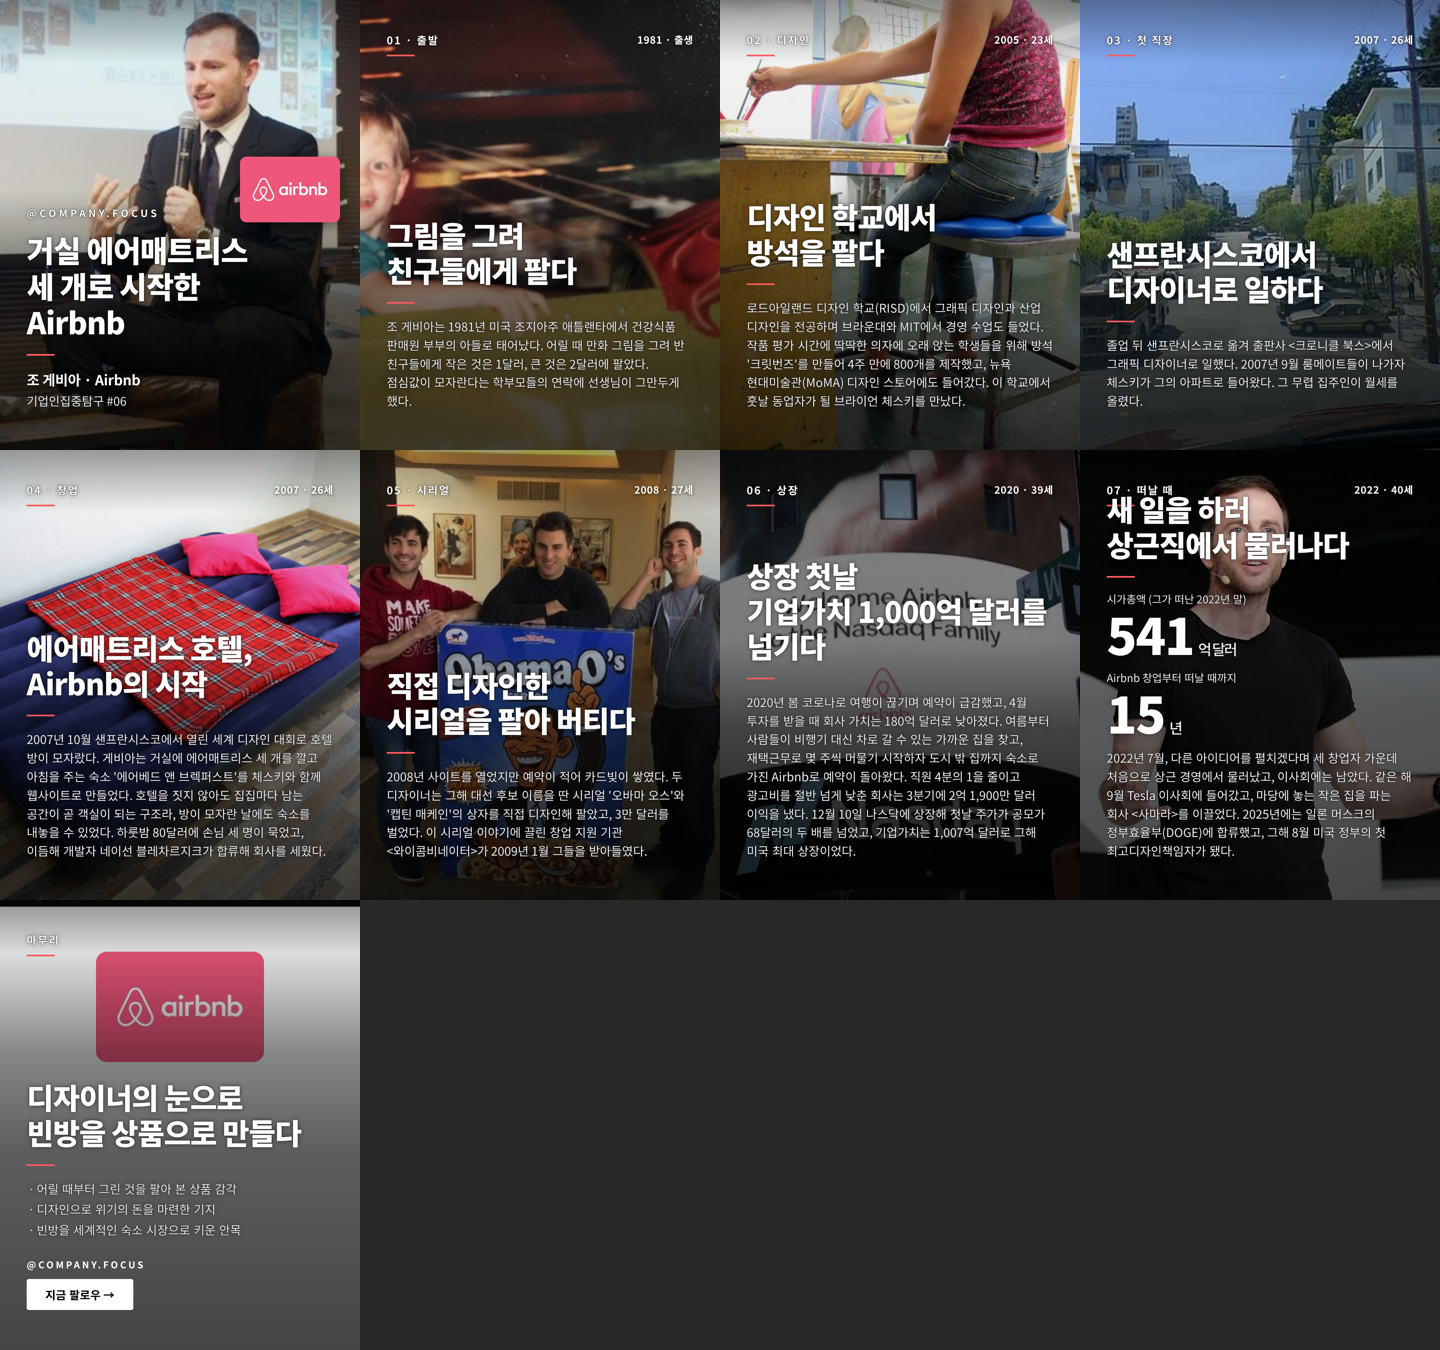
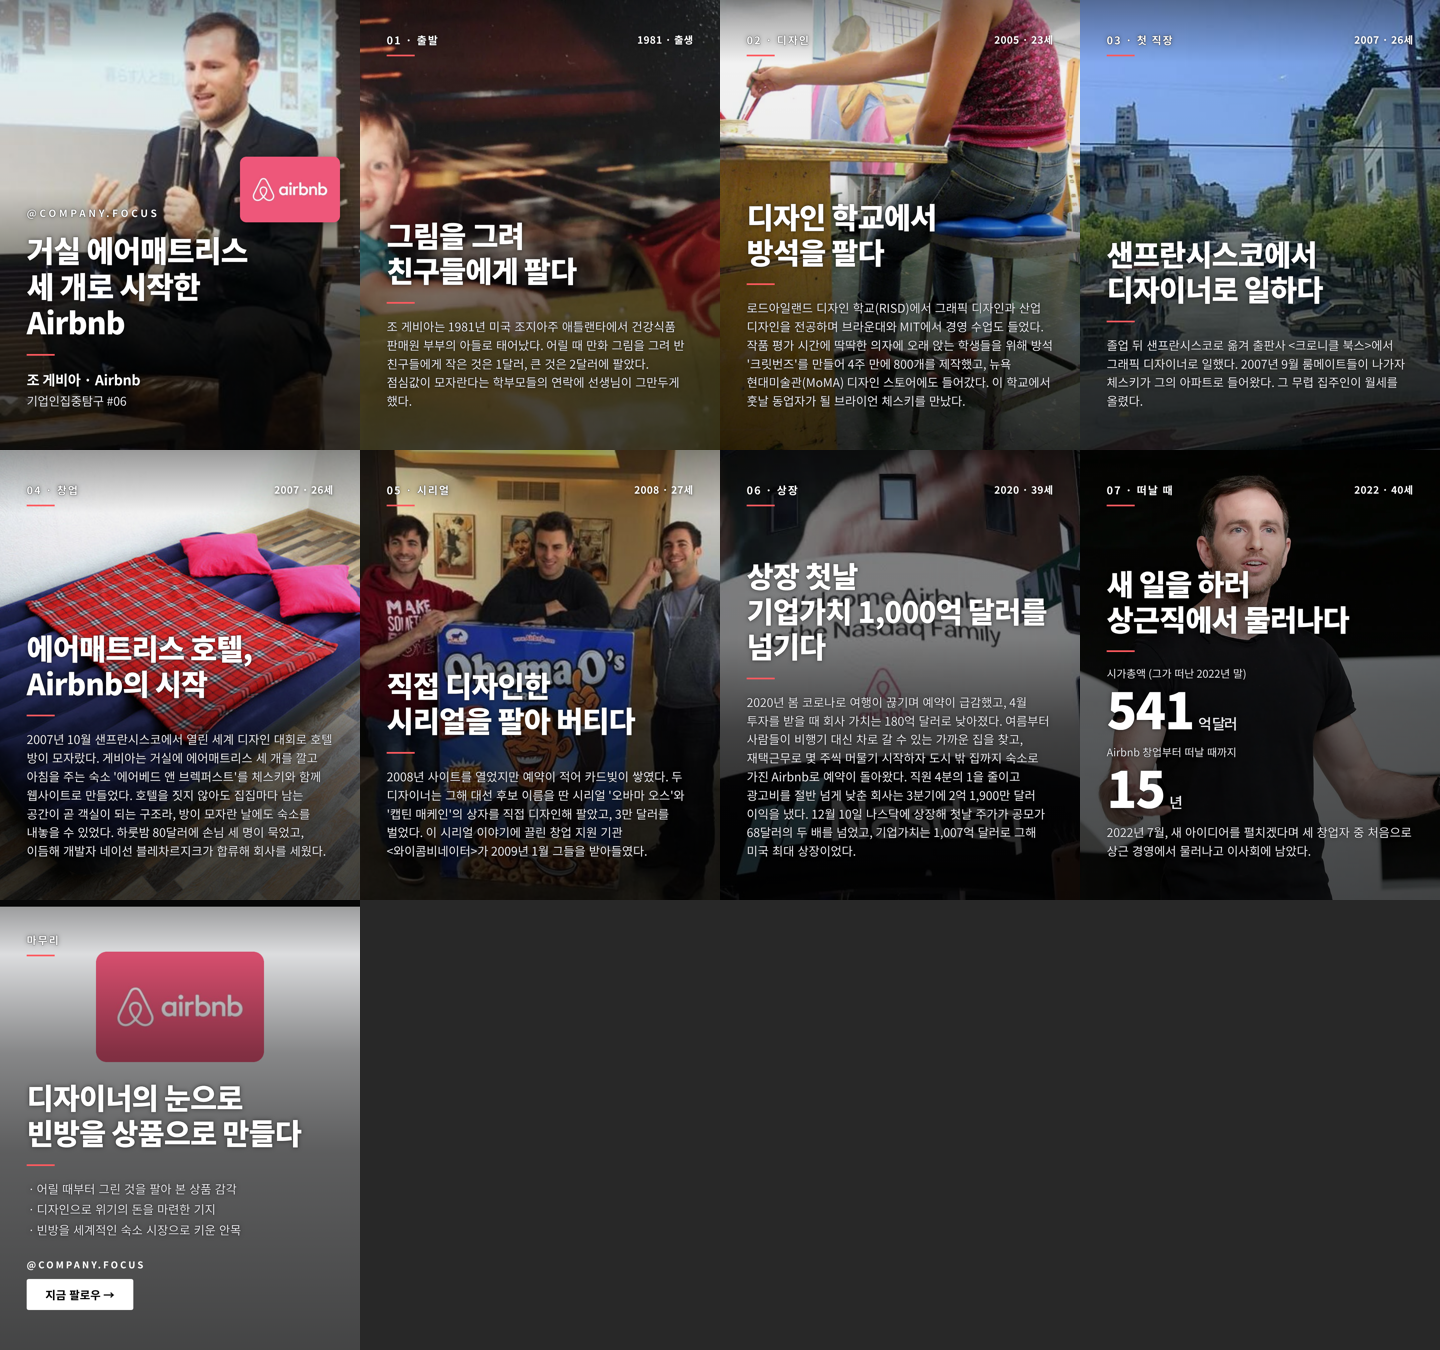
#06 08장 제목 겹침 수정·본문 축소, render.py에 레이아웃 겹침 검사 추가
Claude-Session: https://claude.ai/code/session_0174UmVuwJmyLhAWFRzq7SfG

Changed region(s): [[0.75, 0.3422, 0.9688, 0.6533]]

diff --git a/render.py b/render.py
@@ -137,6 +137,16 @@ def main(path):
                    f'<body>{slide_html(ep, s, i, len(slides), path.parent)}</body></html>')
             pg.set_content(doc)
             pg.wait_for_timeout(150)
+            # 레이아웃 검사: 본문 블록이 위 주석(.idx·.when·.pg)과 겹치거나 화면 밖으로 나가면 멈춤
+            bad = pg.evaluate("""() => {
+              const t = document.querySelector('.txt'); if (!t) return null;
+              const r = t.getBoundingClientRect(); let lim = 0;
+              for (const q of ['.idx','.when','.pg']) { const el = document.querySelector(q); if (el) lim = Math.max(lim, el.getBoundingClientRect().bottom); }
+              if (r.top < lim + 40) return `본문 시작 ${Math.round(r.top)}px가 위 주석 아래 ${Math.round(lim)}px+40과 겹침`;
+              if (r.bottom > innerHeight) return '본문이 화면 아래로 넘침';
+              return null; }""")
+            if bad:
+                sys.exit(f"{i:02d}장 레이아웃 문제: {bad}. 본문·제목을 줄이고 다시 렌더")
             pg.screenshot(path=str(out / f"{i:02d}.png"))
         b.close()
     (out / "caption.txt").write_text(ep["caption"])
